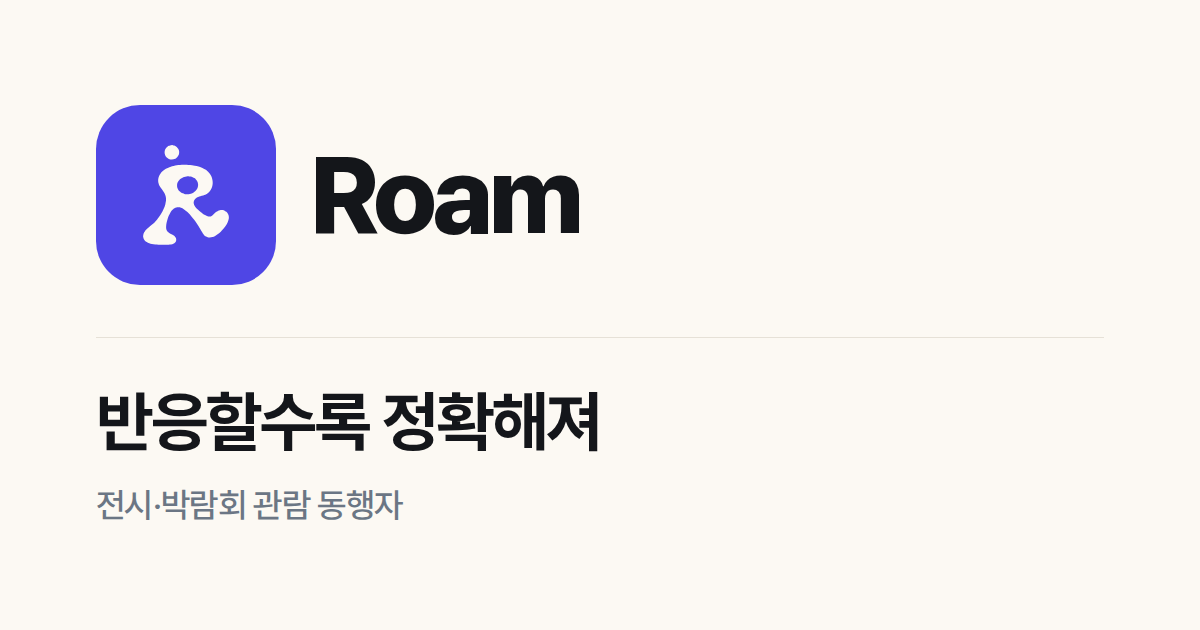
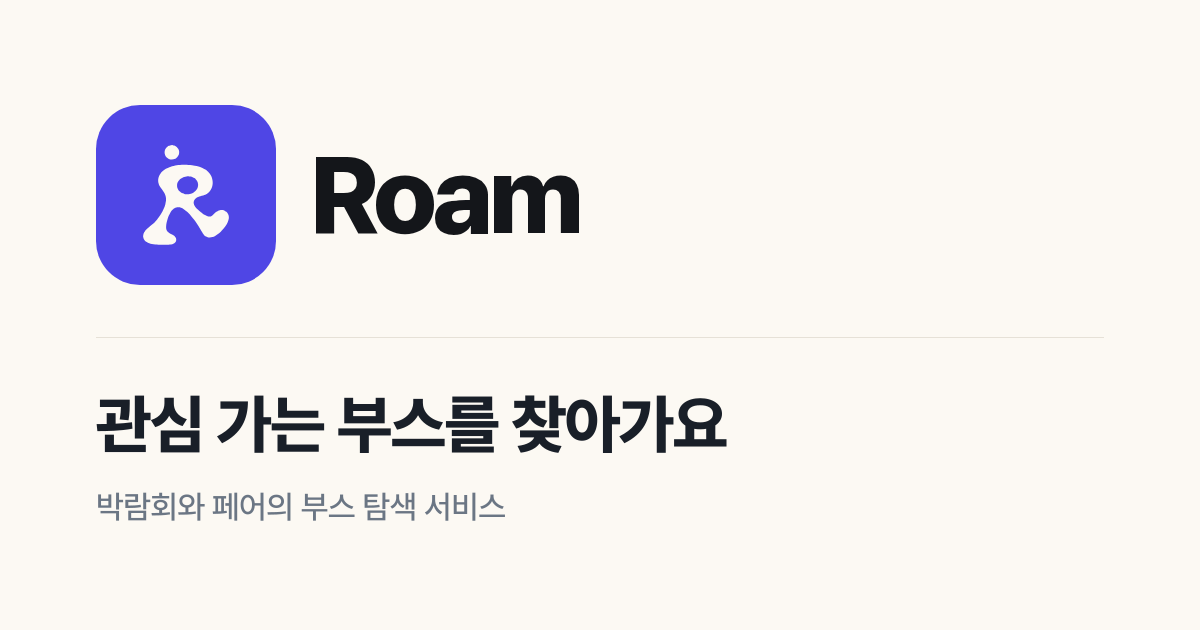
docs(legal): 약관, 개인정보, 설문, OG 이미지 표기 정리
약관과 개인정보는 법적 의미, 합니다체, 시행일을 그대로 두고 '전시'와 가운뎃점만
고쳤다. 설문은 SURVEY_ID, 질문 뜻, 보기 순서, 저장 값을 그대로 두고 표시 라벨만
고쳤다. OG 이미지의 아래 두 줄을 '관심 가는 부스를 찾아가요 / 박람회와 페어의
부스 탐색 서비스'로 다시 그리고 alt 텍스트를 맞췄다.

Changed region(s): [[0.0617, 0.6032, 0.6167, 0.7238], [0.0617, 0.754, 0.4317, 0.8444]]

diff --git a/src/app/privacy/page.tsx b/src/app/privacy/page.tsx
@@ -57,7 +57,7 @@ export default function PrivacyPage() {
             개인정보처리방침
           </h1>
           <p className="mt-2 text-sm text-muted-foreground">
-            시행일 · 최종 수정일: {EFFECTIVE_DATE}
+            시행일, 최종 수정일: {EFFECTIVE_DATE}
           </p>
           <p className="mt-4 text-sm text-muted-foreground">
             <a
@@ -73,15 +73,15 @@ export default function PrivacyPage() {
         <div className="space-y-10">
           <Section no="1" title="서비스 소개">
             <p>
-              Roam(이하 &ldquo;서비스&rdquo;)은 전시·박람회 방문객을 위한 모바일
-              관람 안내 서비스입니다. 이용자가 관심 있는 부스를 발견하고, 전시장
+              Roam(이하 &ldquo;서비스&rdquo;)은 박람회와 페어 방문객을 위한 모바일
+              관람 안내 서비스입니다. 이용자가 관심 있는 부스를 발견하고, 행사장
               지도에서 위치를 확인하고, 자신의 관람 기록을 남길 수 있도록
               돕습니다.
             </p>
             <p>
               서비스는 Google 계정을 이용한 로그인(Google OAuth)을 지원합니다.
               본 방침은 서비스가 이용자의 개인정보를 어떻게
-              수집·이용·보관·파기하는지 설명합니다.
+              수집, 이용, 보관, 파기하는지 설명합니다.
             </p>
           </Section>
 
@@ -121,7 +121,7 @@ export default function PrivacyPage() {
             </p>
             <ul className="list-disc space-y-1 pl-5">
               <li>닉네임</li>
-              <li>부스에 남긴 반응·메모·사진, 북마크</li>
+              <li>부스에 남긴 반응, 메모, 사진, 북마크</li>
               <li>리뷰, 커뮤니티 게시글 및 첨부 이미지</li>
               <li>
                 관심 분야 선택값 및 이용 기록에서 파생된 취향 정보(추천 개인화에
@@ -137,7 +137,7 @@ export default function PrivacyPage() {
               <li>로그인 상태 유지를 위한 세션 쿠키</li>
               <li>
                 서비스 개선을 위한 이용 기록(접속 시각, 조회한 화면, 대략적인
-                기기·브라우저 정보)
+                기기, 브라우저 정보)
               </li>
             </ul>
 
@@ -153,8 +153,8 @@ export default function PrivacyPage() {
             <Table
               head={["항목", "용도", "저장 여부"]}
               rows={[
-                ["댓글 ID·게시물 ID", "같은 댓글에 메시지가 두 번 가지 않게 확인", "저장"],
-                ["인스타그램 사용자 ID·사용자 이름", "메시지 수신자 확인", "저장"],
+                ["댓글 ID, 게시물 ID", "같은 댓글에 메시지가 두 번 가지 않게 확인", "저장"],
+                ["인스타그램 사용자 ID, 사용자 이름", "메시지 수신자 확인", "저장"],
                 ["댓글 내용", "키워드 일치 여부 확인", "저장하지 않음"],
               ]}
             />
@@ -180,12 +180,12 @@ export default function PrivacyPage() {
                 서비스는 비밀번호를 받지 않습니다.
               </li>
               <li>
-                Google 액세스 토큰·리프레시 토큰 — 로그인 직후 신원 확인에만
+                Google 액세스 토큰, 리프레시 토큰 — 로그인 직후 신원 확인에만
                 사용하고 즉시 폐기하며, 서버에 보관하지 않습니다.
               </li>
               <li>결제 정보, 주민등록번호 등 고유식별정보</li>
               <li>
-                정밀 위치정보(GPS) — 전시장 지도는 도면 좌표만 사용합니다.
+                정밀 위치정보(GPS) — 행사장 지도는 도면 좌표만 사용합니다.
               </li>
             </ul>
           </Section>
@@ -194,7 +194,7 @@ export default function PrivacyPage() {
             <ul className="list-disc space-y-1 pl-5">
               <li>회원 식별 및 로그인 상태 유지</li>
               <li>관심 있을 만한 부스 추천 및 개인화</li>
-              <li>이용자가 남긴 반응·메모·사진의 저장과 재열람</li>
+              <li>이용자가 남긴 반응, 메모, 사진의 저장과 재열람</li>
               <li>관람 기록 요약 및 회고 제공</li>
               <li>서비스 품질 개선 및 오류 대응</li>
               <li>법령상 의무 이행</li>
@@ -209,7 +209,7 @@ export default function PrivacyPage() {
             <p className="font-semibold text-foreground">저장되는 데이터</p>
             <ul className="list-disc space-y-1 pl-5">
               <li>계정 정보(이메일, 닉네임, 프로필 이미지 URL, 계정 식별자)</li>
-              <li>부스 반응·메모·북마크·리뷰·커뮤니티 게시글</li>
+              <li>부스 반응, 메모, 북마크, 리뷰, 커뮤니티 게시글</li>
               <li>업로드한 이미지</li>
               <li>취향 정보 및 이용 기록</li>
             </ul>
@@ -250,8 +250,8 @@ export default function PrivacyPage() {
                 ],
                 [
                   "Google (Gemini API)",
-                  "부스·커뮤니티 요약문 생성",
-                  "전시·부스 정보 및 관련 텍스트",
+                  "부스, 커뮤니티 요약문 생성",
+                  "행사와 부스 정보 및 관련 텍스트",
                 ],
                 [
                   "Google (Firebase Cloud Messaging)",
@@ -261,7 +261,7 @@ export default function PrivacyPage() {
                 [
                   "Meta (Instagram API)",
                   "인스타그램 댓글 확인 및 안내 메시지 발송",
-                  "댓글 ID, 인스타그램 사용자 ID·이름",
+                  "댓글 ID, 인스타그램 사용자 ID, 이름",
                 ],
               ]}
             />
@@ -335,7 +335,7 @@ export default function PrivacyPage() {
                 운영에 필요한 최소 범위로 제한합니다.
               </li>
               <li>
-                Google 액세스·리프레시 토큰을 보관하지 않으므로, 유출 시
+                Google 액세스 토큰과 리프레시 토큰을 보관하지 않으므로, 유출 시
                 이용자의 Google 계정이 노출될 위험을 구조적으로 차단합니다.
               </li>
             </ul>
@@ -379,7 +379,7 @@ export default function PrivacyPage() {
 
           <Section no="13" title="문의">
             <p>
-              개인정보 처리에 관한 문의·불만·피해 구제는 아래로 연락해 주시기
+              개인정보 처리에 관한 문의, 불만, 피해 구제는 아래로 연락해 주시기
               바랍니다.
             </p>
             <p className="font-semibold text-foreground">

diff --git a/src/app/terms/page.tsx b/src/app/terms/page.tsx
@@ -47,7 +47,7 @@ export default function TermsPage() {
             서비스 이용약관
           </h1>
           <p className="mt-2 text-sm text-muted-foreground">
-            시행일 · 최종 수정일: {EFFECTIVE_DATE}
+            시행일, 최종 수정일: {EFFECTIVE_DATE}
           </p>
           <p className="mt-4 text-sm text-muted-foreground">
             <a
@@ -64,20 +64,20 @@ export default function TermsPage() {
           <Section no="1" title="약관의 목적">
             <p>
               본 약관은 Roam(이하 &ldquo;서비스&rdquo;)을 이용하는 데 필요한
-              조건과 절차, 이용자와 서비스 운영자의 권리·의무를 정합니다.
+              조건과 절차, 이용자와 서비스 운영자의 권리와 의무를 정합니다.
             </p>
           </Section>
 
           <Section no="2" title="서비스 내용">
             <p>
-              서비스는 전시·박람회 방문객을 위한 모바일 관람 안내 서비스입니다.
+              서비스는 박람회와 페어 방문객을 위한 모바일 관람 안내 서비스입니다.
               구체적으로 다음을 제공합니다.
             </p>
             <ul className="list-disc space-y-1 pl-5">
-              <li>전시 및 부스 정보 열람</li>
+              <li>행사 및 부스 정보 열람</li>
               <li>이용자의 관심사에 맞춘 부스 추천</li>
-              <li>전시장 도면 기반 위치 안내</li>
-              <li>부스에 대한 반응·메모·사진 기록</li>
+              <li>행사장 도면 기반 위치 안내</li>
+              <li>부스에 대한 반응, 메모, 사진 기록</li>
               <li>리뷰 및 커뮤니티 게시</li>
               <li>관람 기록 요약</li>
             </ul>
@@ -139,7 +139,7 @@ export default function TermsPage() {
             <ul className="list-disc space-y-1 pl-5">
               <li>법령이나 공서양속에 반하는 내용을 게시하는 행위</li>
               <li>
-                타인을 비방·모욕하거나 명예를 훼손하는 내용을 게시하는 행위
+                타인을 비방, 모욕하거나 명예를 훼손하는 내용을 게시하는 행위
               </li>
               <li>타인의 저작권 등 권리를 침해하는 내용을 게시하는 행위</li>
               <li>허위 정보를 게시하거나 타인을 사칭하는 행위</li>
@@ -153,11 +153,11 @@ export default function TermsPage() {
 
           <Section no="6" title="이용자가 올린 콘텐츠">
             <p>
-              이용자가 작성한 메모·사진·리뷰·커뮤니티 게시글(이하
+              이용자가 작성한 메모, 사진, 리뷰, 커뮤니티 게시글(이하
               &ldquo;게시물&rdquo;)의 저작권은 이용자에게 있습니다.
             </p>
             <p>
-              운영자는 서비스 제공·개선 및 서비스 내 노출에 필요한 범위에서만
+              운영자는 서비스 제공, 개선 및 서비스 내 노출에 필요한 범위에서만
               게시물을 이용합니다. 이 범위를 벗어난 이용(예: 외부 광고 활용)에는
               별도의 동의를 받습니다.
             </p>
@@ -172,11 +172,11 @@ export default function TermsPage() {
             </p>
           </Section>
 
-          <Section no="7" title="전시 정보의 정확성">
+          <Section no="7" title="행사 정보의 정확성">
             <p>
-              서비스가 제공하는 전시·부스 정보는 주최 측이 공개한 자료와 운영자가
-              정리한 내용을 바탕으로 합니다. 현장 사정에 따라 부스 위치·운영
-              시간·행사 내용이 달라질 수 있으며, 운영자는 정보가 항상 최신이거나
+              서비스가 제공하는 행사와 부스 정보는 주최 측이 공개한 자료와 운영자가
+              정리한 내용을 바탕으로 합니다. 현장 사정에 따라 부스 위치, 운영
+              시간, 행사 내용이 달라질 수 있으며, 운영자는 정보가 항상 최신이거나
               오류가 없음을 보증하지 않습니다.
             </p>
             <p>
@@ -187,7 +187,7 @@ export default function TermsPage() {
 
           <Section no="8" title="서비스의 중단">
             <p>
-              운영자는 설비 점검·교체, 시스템 장애, 통신 두절 등의 사유로 서비스
+              운영자는 설비 점검, 교체, 시스템 장애, 통신 두절 등의 사유로 서비스
               제공을 일시적으로 중단할 수 있습니다. 예정된 중단은 사전에
               안내하며, 불가피한 사유로 사전 안내가 어려운 경우 사후에
               안내합니다.
@@ -210,7 +210,7 @@ export default function TermsPage() {
               않습니다.
             </p>
             <p>
-              이용자 간 또는 이용자와 제3자(전시 주최 측·출품사 등) 사이에 발생한
+              이용자 간 또는 이용자와 제3자(행사 주최 측, 출품사 등) 사이에 발생한
               분쟁에 대해 운영자는 개입할 의무가 없으며, 그로 인한 손해에 책임을
               지지 않습니다.
             </p>

diff --git a/src/lib/survey/questions.ts b/src/lib/survey/questions.ts
@@ -30,7 +30,7 @@ export interface SurveyQuestion {
 export const SURVEY_QUESTIONS: SurveyQuestion[] = [
   {
     key: "freq",
-    title: "전시·박람회에 얼마나 자주 가세요?",
+    title: "박람회와 페어에 얼마나 자주 가세요?",
     short: "방문 빈도",
     options: [
       { value: "month", label: "한 달에 한 번 이상" },
@@ -41,21 +41,21 @@ export const SURVEY_QUESTIONS: SurveyQuestion[] = [
   },
   {
     key: "kinds",
-    title: "주로 어떤 전시에 가세요?",
-    short: "주로 가는 전시",
+    title: "주로 어떤 박람회에 가세요?",
+    short: "주로 가는 박람회",
     multi: true,
     options: [
-      { value: "living", label: "가구·리빙·인테리어" },
-      { value: "food", label: "카페·음식·주류" },
-      { value: "design", label: "디자인·아트페어" },
-      { value: "book", label: "책·출판·독립서점" },
-      { value: "craft", label: "공예·핸드메이드 마켓" },
-      { value: "biz", label: "일 때문에 가는 산업 전시" },
+      { value: "living", label: "가구, 리빙, 인테리어" },
+      { value: "food", label: "카페, 음식, 주류" },
+      { value: "design", label: "디자인, 아트페어" },
+      { value: "book", label: "책, 출판, 독립서점" },
+      { value: "craft", label: "공예, 핸드메이드 마켓" },
+      { value: "biz", label: "일 때문에 가는 산업 박람회" },
     ],
   },
   {
     key: "pain",
-    title: "전시장에서 가장 힘든 건 뭐예요?",
+    title: "행사장에서 가장 힘든 건 뭐예요?",
     short: "가장 힘든 것",
     hint: "두 개까지 골라 주세요.",
     multi: true,
@@ -75,7 +75,7 @@ export const SURVEY_QUESTIONS: SurveyQuestion[] = [
     short: "부스 찾는 단서",
     options: [
       { value: "code", label: "부스 번호(A101 같은)" },
-      { value: "name", label: "브랜드·부스 이름" },
+      { value: "name", label: "브랜드, 부스 이름" },
       { value: "zone", label: "분야나 구역" },
       { value: "walk", label: "그냥 걸어 다니며 눈에 띄는 곳" },
     ],
@@ -96,7 +96,7 @@ export const SURVEY_QUESTIONS: SurveyQuestion[] = [
     short: "처음 열 때",
     visual: "entry",
     options: [
-      { value: "whole", label: "전시장 전체", sub: "한눈에 보이지만 이름은 작아요" },
+      { value: "whole", label: "행사장 전체", sub: "한눈에 보이지만 이름은 작아요" },
       { value: "entrance", label: "입구 근처를 크게", sub: "이름은 읽히고, 넓게 보려면 줄여요" },
     ],
   },
@@ -112,8 +112,8 @@ export const SURVEY_QUESTIONS: SurveyQuestion[] = [
   },
   {
     key: "judge",
-    title: "부스에 “좋았어 · 별로” 같은 평가와 메모를 어디서 남기고 싶으세요?",
-    short: "평가·메모 자리",
+    title: "부스에 “좋았어, 별로” 같은 평가와 메모를 어디서 남기고 싶으세요?",
+    short: "평가, 메모 자리",
     options: [
       { value: "map-card", label: "지도에서 부스를 눌렀을 때 뜨는 카드에서", sub: "상세 화면에 들어가지 않고" },
       { value: "intro-tab", label: "부스 소개 화면에서", sub: "설명을 읽다가 그 자리에서" },

diff --git a/src/components/survey/survey-form.tsx b/src/components/survey/survey-form.tsx
@@ -66,7 +66,7 @@ export function SurveyForm() {
   if (state === "done") {
     return (
       <section className="rounded-2xl border border-border bg-card px-5 py-10 text-center" role="status">
-        <p className="text-xl font-bold">답변 고맙습니다!</p>
+        <p className="text-xl font-bold">답해 주셔서 고마워요!</p>
         <p className="mt-2 text-muted-foreground">지도 만드는 데 잘 쓸게요.</p>
       </section>
     );
@@ -125,7 +125,7 @@ export function SurveyForm() {
 
       <div className="flex flex-col gap-3 rounded-2xl border border-border bg-card p-4">
         <label htmlFor="survey-comment" className="text-[16px] font-bold leading-snug">
-          {SURVEY_QUESTIONS.length + 1}. 전시장에서 불편했던 점이나 바라는 점을 적어주세요{" "}
+          {SURVEY_QUESTIONS.length + 1}. 행사장에서 불편했던 점이나 바라는 점을 적어주세요{" "}
           <span className="font-normal text-muted-foreground">(선택)</span>
         </label>
         <Textarea

diff --git a/src/app/survey/page.tsx b/src/app/survey/page.tsx
@@ -7,7 +7,7 @@ import { SurveyForm } from "@/components/survey/survey-form";
  * 결정: docs/decisions/2026-10-16_공개-설문-페이지.md
  */
 const TITLE = "박람회에서 부스 못 찾고 헤맨 적 있으세요?";
-const DESCRIPTION = "코엑스·세텍 박람회에서 쓸 부스 지도 앱을 만들고 있는데, 1분만 도와주세요!";
+const DESCRIPTION = "코엑스, 세텍 박람회에서 쓸 부스 지도 앱을 만들고 있는데, 1분만 도와주세요!";
 
 export const metadata: Metadata = {
   title: TITLE,
